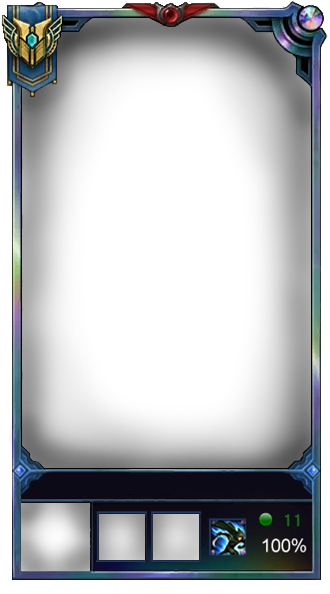
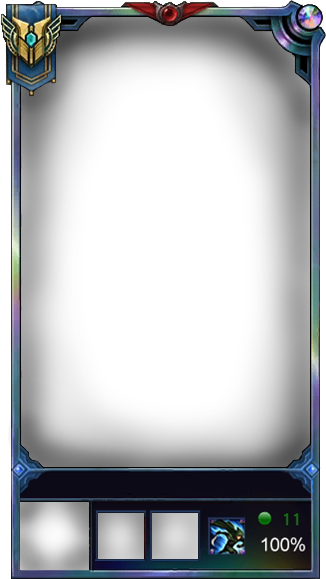
fix: :lipstick: correccion posicion spell borders

Changed region(s): [[0.0, 0.0, 1.0, 1.0]]

diff --git a/src/app/shared/components/border-detail/index.tsx b/src/app/shared/components/border-detail/index.tsx
@@ -11,21 +11,21 @@ type Props = {
 
 const getSpellLeftClass = (rank: Rank): string => {
 	let spellLeftClass = "absolute aspect-square";
-	if (rank === Rank.Diamond || rank === Rank.Platinum) {
-		spellLeftClass += " bottom-[26px] left-[75px] aspect-square";
+	if (rank === Rank.Challenger) {
+		spellLeftClass += " bottom-[21px] left-[76px] aspect-square";
 		return spellLeftClass;
 	}
-	spellLeftClass += " bottom-[22px] left-[76px] aspect-square";
+	spellLeftClass += " bottom-[15px] left-[76px] aspect-square";
 	return spellLeftClass;
 };
 
 const getSpellRightClass = (rank: Rank): string => {
 	let spellRightClass = "absolute aspect-square";
-	if (rank === Rank.Diamond || rank === Rank.Platinum) {
-		spellRightClass += " bottom-[26px] left-[116px] aspect-square";
+	if (rank === Rank.Challenger) {
+		spellRightClass += " bottom-[21px] left-[117px] aspect-square";
 		return spellRightClass;
 	}
-	spellRightClass += " bottom-[22px] left-[118px] aspect-square";
+	spellRightClass += " bottom-[15px] left-[117px] aspect-square";
 	return spellRightClass;
 };
 
@@ -35,10 +35,10 @@ export function BorderDetail({ rank, img, avatar, username }: Props) {
 
 	return (
 		<div
-			className={`flex flex-col items-center w-[250px] aspect-[5/9] pt-4 relative`}
+			className={`flex flex-col items-center w-[250px] aspect-[5/9] pt-[12px] pl-2 relative`}
 		>
 			<div
-				className={`bg-cover bg-center bg-no-repeat h-[345px] w-[225px]`}
+				className={`bg-cover bg-center bg-no-repeat h-[352px] w-[225px]`}
 				style={{
 					backgroundImage: `url(${img})`,
 				}}

diff --git a/src/app/shared/components/avatar-user/index.tsx b/src/app/shared/components/avatar-user/index.tsx
@@ -7,12 +7,16 @@ interface Props {
 }
 
 const getAvatarClass = (rank: Rank) => {
-	let avatarClass = "absolute";
-	if (rank === Rank.Diamond || rank === Rank.Platinum) {
-		avatarClass += " bottom-[17px] left-[16px]";
+	let avatarClass = "absolute aspect-square";
+	if (rank === Rank.Challenger) {
+		avatarClass += " bottom-[13px] left-[17px]";
 		return avatarClass;
 	}
-	avatarClass += " bottom-[12px] left-[17px]";
+	if (rank === Rank.Platinum) {
+		avatarClass += " bottom-[5px] left-[15.1px]";
+		return avatarClass;
+	}
+	avatarClass += " bottom-[6px] left-[15px]";
 	return avatarClass;
 };
 
@@ -22,8 +26,8 @@ export function AvatarUser({ rank, avatar, username }: Props) {
 			className={getAvatarClass(rank)}
 			src={avatar}
 			alt={`Avatar usuario ${username}`}
-			width={54}
-			height={52}
+			width={55}
+			height={55}
 		/>
 	);
 }

diff --git a/src/app/ui/components/summoner-spell/index.tsx b/src/app/ui/components/summoner-spell/index.tsx
@@ -12,8 +12,8 @@ export function SummonerSpell({ position, classCustom = "" }: Props) {
 		<img
 			className={`absolute aspect-square ${classCustom}`}
 			src={`/summoner-spell/${icon}`}
-			width={34.8}
-			height={34.8}
+			width={37}
+			height={37}
 			alt={`Spell ${position.replace("Icon", "")}`}
 		/>
 	);
